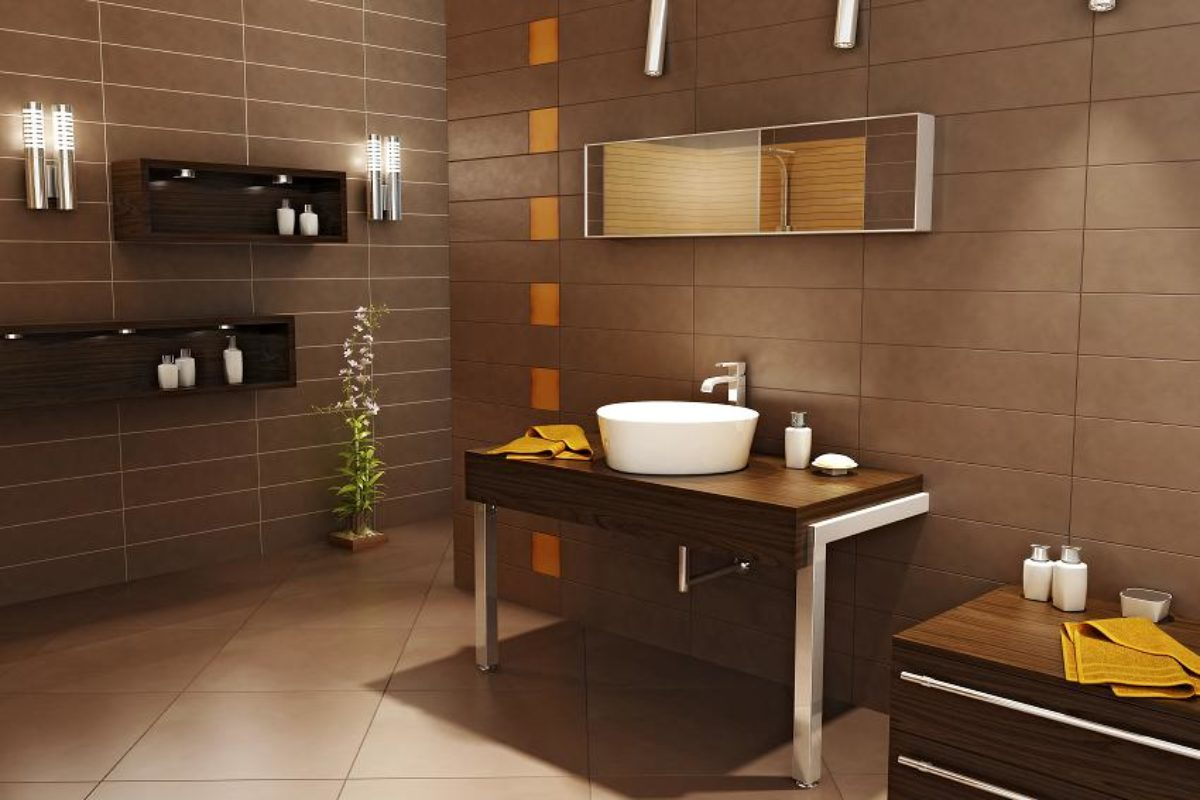
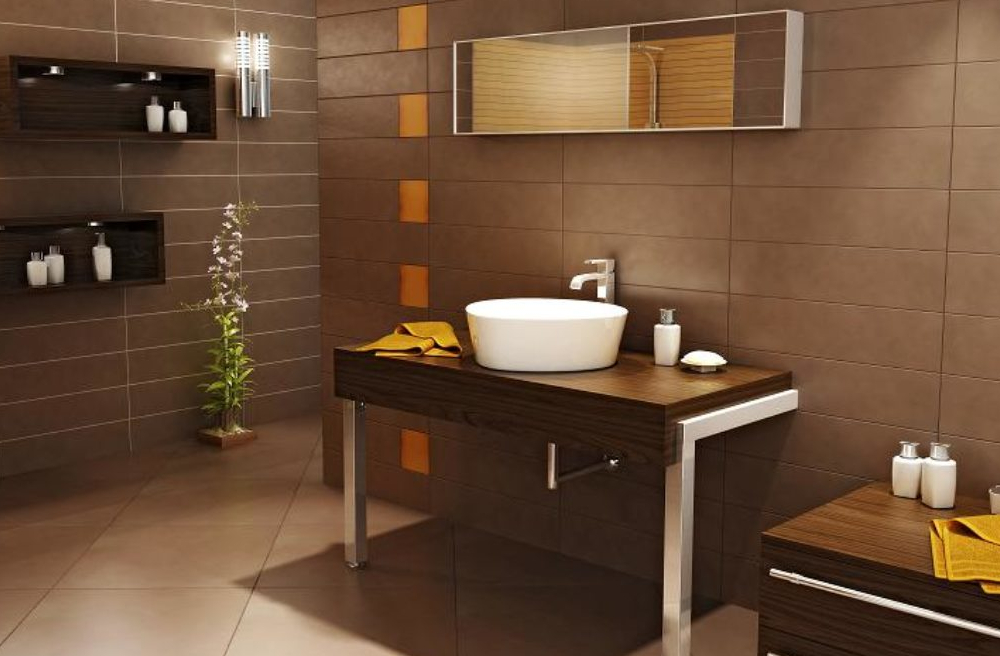
Zajecia 4.11

diff --git a/index.html b/index.html
@@ -49,7 +49,7 @@
                     <p>     Twoja łazienka juz cie sie nie podoba? Planujesz jej remont? Urządzasz sobie nowe mieszkanie? Jeżeli tak to trafiłeś idealnie! Nasza firma działa na rynku od 2017 roku i specjalizuje się w glazurnictwie. Realizujemy wszelkie zachcianki klientów oraz posiadamy same pozytywne opinie! Na co jeszcze czekasz? Zadzwoń do nas i przekonaj sie sam!</p>
                 </div>
                 <div class="respo_2">
-                    <img src="zdj/strona_g_jpg_1.jpg" alt="Zdjecie łazienki" >
+                    <img src="zdj/strona_g_jpg_4.jpg" alt="Zdjecie łazienki" >
                 </div>
             </div>
             <div class="respo_2 center">
@@ -60,7 +60,31 @@
                     <li>Demontaż starych kafli</li>
                     <li>Biały montaż</li>
                 </ul>
-                <p style="color:#f73f3f">WYCENA GRATIS!</p>
+                <p style="color:#f73f3f;font-weight: bold;font-size: 20px;">WYCENA GRATIS!</p>
+            </div>
+            <div class="respo_1">
+                <div class="respo_2">
+                    <img src="zdj/strona_g_jpg_3.jpg" alt="Zdjecie łazienki" >
+                </div>
+                <div class="respo_2 center">
+                    <h1>CENNIK</h1>
+                    <table class="cennik">
+                        <tr>
+                            <td>Cena za metr (Posadzki)</td>
+                            <td>Cena za metr (Ściany))</td>
+                            <td>Cena za godzine (Łazienka)</td>
+                            <td>Cena za godzine (Fugowanie)</td>
+                        </tr>
+                        <tr>
+                            <td>50zł</td>
+                            <td>60zł</td>
+                            <td>65zł</td>
+                            <td>30zł</td>
+                        </tr>
+                    </table>
+                    <p style="text-align: right; font-size: 9px;">*Zastrzegamy sobie prawo do zmiany cen</p>
+                    <h1 style="text-decoration: underline;">ZADZWON DO NAS I UMÓW SIE NA WYCENE!</h1>
+                </div>
             </div>
         </div>
 

diff --git a/realizacje.html b/realizacje.html
@@ -44,7 +44,41 @@
         </div>
 
         <div id="main">
-        <p>REALIZACJE</p>
+        
+            <div class="respo_1">
+                <div class="respo_2 center">
+                    <img class="rea_img" src="zdj/strona_g_jpg_1.jpg" alt="Zdjecie łazienki" >
+                </div>
+                <div class="respo_2 center">
+                    <img class="rea_img" src="zdj/strona_g_jpg_5.jpg" alt="Zdjecie łazienki" >
+                </div>
+                <div class="respo_2 center">
+                    <img class="rea_img" src="zdj/strona_g_jpg_6.jpg" alt="Zdjecie łazienki" >
+                </div>
+            </div>
+            <div class="respo_1">
+                <div class="respo_2 center">
+                    <img class="rea_img" src="zdj/strona_g_jpg_7.jpg" alt="Zdjecie łazienki" >
+                </div>
+                <div class="respo_2 center">
+                    <img class="rea_img" src="zdj/strona_g_jpg_8.jpg" alt="Zdjecie łazienki" >
+                </div>
+                <div class="respo_2 center">
+                    <img class="rea_img" src="zdj/strona_g_jpg_9.jpg" alt="Zdjecie łazienki" >
+                </div>
+            </div>
+            <div class="respo_1">
+                <div class="respo_2 center">
+                    <img class="rea_img" src="zdj/strona_g_jpg_10.jpg" alt="Zdjecie łazienki" >
+                </div>
+                <div class="respo_2 center">
+                    <img class="rea_img" src="zdj/strona_g_jpg_11.jpg" alt="Zdjecie łazienki" >
+                </div>
+                <div class="respo_2 center">
+                    <img class="rea_img" src="zdj/strona_g_jpg_12.jpg" alt="Zdjecie łazienki" >
+                </div>
+            </div>
+
     </div>
 
     </div>

diff --git a/style.css b/style.css
@@ -96,6 +96,10 @@ body{
 #hamburg{
     display: none;
 }
+.js_ham{
+  display: none;
+}
+
 #ham_option{
     display: none;
 }
@@ -168,6 +172,27 @@ body{
 }
 .center{
   text-align: center;
+}
+
+.cennik {
+  margin:0 auto;
+}
+.cennik td {
+  border:1px solid black;
+}
+
+.rea_img{
+  transition: 0.5s;
+  width: 98% !important;
+  margin:0 auto;
+}
+
+.rea_img:hover{
+  box-shadow: 0 10px 16px 0 rgba(0,0,0,0.2),0 6px 20px 0 rgba(0,0,0,0.19) !important;
+  border:0;
+  border-radius: 0;
+  width: 100% !important;
+  position:relative;
 }
 
 

diff --git a/scripts/menu.js b/scripts/menu.js
@@ -4,12 +4,14 @@ function menu(){
     var men = document.querySelector("#ham_option");
     if(bool == false)
     {
-        men.style.display = "block";
+        //men.style.display = "block";
+        men.classList.add('js_ham');
         bool = true;
     }
     else if (bool == true)
     {
-        men.style.display = "none";
+        //men.style.display = "none";
+        men.classList.remove('js_ham');
         bool = false;
     }
     console.log(men);

diff --git a/respo.css b/respo.css
@@ -15,4 +15,10 @@
     .respo_1{
         display: block;
     }
+    .js_ham{
+        display: block !important;
+    }
+    .rea_img:hover{
+        position:inherit;
+    }
   }
